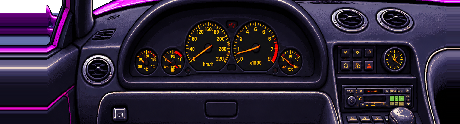
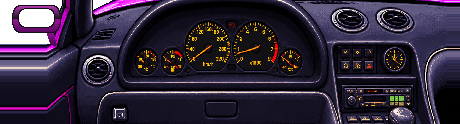
Diablo: retrovisor esquerdo completo e funcionando, aro do volante inteiro ao girar (v0.21.5)
Claude-Session: https://claude.ai/code/session_01MLD9VR7gkmY4w6a9beZcp6

Changed region(s): [[0.0, 0.0242, 0.1522, 0.3629]]

diff --git a/src/cockpit.ts b/src/cockpit.ts
@@ -194,7 +194,7 @@ const DEG = Math.PI / 180;
 // os quatro pequenos cabem inteiros no vão do volante (posições calculadas pela máscara do volante)
 const DIA_SMALL: [number, number, Gauge][] = [[72.4, 49.5, 'oil'], [61.4, 67.5, 'oiltemp'], [187.7, 49.5, 'water'], [198.7, 67.5, 'fuel']];
 COCKPIT_ART.diablo = {
-  glass: { at: [60, 160], thr: 256 }, tells: [130, 30],
+  glass: { at: [36, 93], thr: 256 }, tells: [130, 30], // retrovisor esquerdo desenhado em diablo_cockpit.py (side_mirror)
   dash: cp('diablo-dash'), top: cp('diablo-top'), wheel: cp('diablo-wheel'),
   pivot: [128, 112], wheelTop: 8, radar: [196, 6], speedMax: 360, needle: '#f5961c', needleW: 1.6, needleTail: 5, needleTailCol: '#141416', needleFine: true, hub: '#151517', hubR: 3.4,
   faces: [{ src: cp('diablo-cluster'), x: 26.5, y: 12.5, w: 188, h: 70 }],

diff --git a/tools/ref/diablo_cockpit.py b/tools/ref/diablo_cockpit.py
@@ -37,6 +37,45 @@ def sample(img, xs, ys):
     return img[yi][:, xi]
 
 
+def side_mirror(rgb, al):
+    """retrovisor esquerdo completo (a arte só mostra a ponta dele, cortada na borda): carcaça na cor
+    da carroceria com luz em cima, moldura escura e o vidro transparente (o jogo põe a vista de trás
+    nele: glass em COCKPIT_ART.diablo), e o braço até a porta. Colunas do painel (com as 102 extras)."""
+    rgb, al = rgb.copy(), al.copy()
+    # tons da lataria roxa da arte (coluna e capô): claro, médio e escuro
+    light, mid, dark = (np.array(c, np.uint8) for c in ((214, 64, 214), (150, 20, 150), (78, 8, 84)))
+    h, w = al.shape
+    yy, xx = np.mgrid[0:h, 0:w]
+    # janela livre onde a borda da arte esticava a ponta do retrovisor
+    clear = ((xx < 58) & (yy < 31)) | ((xx < 50) & (yy < 44))
+    al[clear] = False
+
+    def rrect(x0, y0, x1, y1, r):
+        cx = np.clip(xx, x0 + r, x1 - r)
+        cy = np.clip(yy, y0 + r, y1 - r)
+        return ((xx - cx) ** 2 + ((yy - cy) * 8 / 7) ** 2 <= r * r) & (xx >= x0) & (xx <= x1) & (yy >= y0) & (yy <= y1)
+    arm = np.zeros_like(al)
+    for y in range(30, 45):
+        t = (y - 30) / 14
+        arm[y, int(46 + 5 * t):int(54 + 3 * t)] = True
+    body = rrect(12, 3, 60, 34, 10)
+    glass = rrect(19, 8, 53, 27, 6)
+    ring = rrect(18, 7, 54, 28, 7) & ~glass
+    t = np.clip((yy - 30) / 14, 0, 1)[..., None]
+    rgb[arm] = (mid * (1 - t) + dark * t).astype(np.uint8)[arm]
+    al[arm] = True
+    t = np.clip((yy - 3) / 31, 0, 1)[..., None]
+    shade = np.where(t < 0.5, light * (1 - 2 * t) + mid * 2 * t, mid * (2 - 2 * t) + dark * (2 * t - 1)).astype(np.uint8)
+    rgb[body] = shade[body]
+    edge = body & ~cv2.erode(body.astype(np.uint8), np.ones((3, 3), np.uint8)).astype(bool)
+    rgb[edge] = (24, 14, 30)
+    rgb[ring] = (18, 14, 22)
+    al[body] = True
+    al[glass] = False
+    print('vidro do retrovisor: colunas 19-53, linhas 8-27 do painel; semente', (36, 76 + 17))
+    return rgb, al
+
+
 def main():
     d, out = sys.argv[1], sys.argv[2]
     ww = np.array(Image.open(os.path.join(d, 'cab.png')).convert('RGB'))
@@ -70,6 +109,7 @@ def main():
     d_rgb = sample(nw, xr, ys)
     d_al = ~sample(sky, xr, ys)
     d_al[:, xs < 0] = (ys[:, None] > 330).repeat((xs < 0).sum(), 1)
+    d_rgb, d_al = side_mirror(d_rgb, d_al)
     Image.fromarray(np.dstack([d_rgb, d_al.astype(np.uint8) * 255]), 'RGBA').save(os.path.join(out, 'diablo-dash.png'))
     xs, ys = grid(y0d - EXT * PXH, EXT)
     xr = np.clip(xs, 0, W - 1)
@@ -92,6 +132,14 @@ def main():
     xs, ys = grid(y0d - WTOP * PXH, WROWS, 0, 256)
     w_rgb = sample(ww, xs, ys)
     w_al = sample(wheel, xs, ys)
+    # a arte corta o aro embaixo: abaixo dela o aro é o de cima espelhado (círculo inteiro ao girar,
+    # sem as duas hastes retas), um pouco mais escuro
+    low = ys >= H - 2
+    if low.any():
+        ym = 2 * PIV[1] - ys[low]
+        ring = (rr <= R_OUT) & (rr >= R_IN)
+        w_rgb[low] = (sample(ww, xs, ym).astype(int) * 0.82).astype(np.uint8)
+        w_al[low] = sample(ring, xs, ym)
     Image.fromarray(np.dstack([w_rgb, w_al.astype(np.uint8) * 255]), 'RGBA').save(os.path.join(out, 'diablo-wheel.png'))
     nat = lambda p: (round(PIV_N[0] + (p[0] - PIV[0]) * S, 1), round((p[1] - y0d) / PXH, 1))
     print('emblema volante', (round(PIV_N[0] + (768 - PIV[0]) * S, 1), round((745 - (y0d - WTOP * PXH)) / PXH, 1)),
